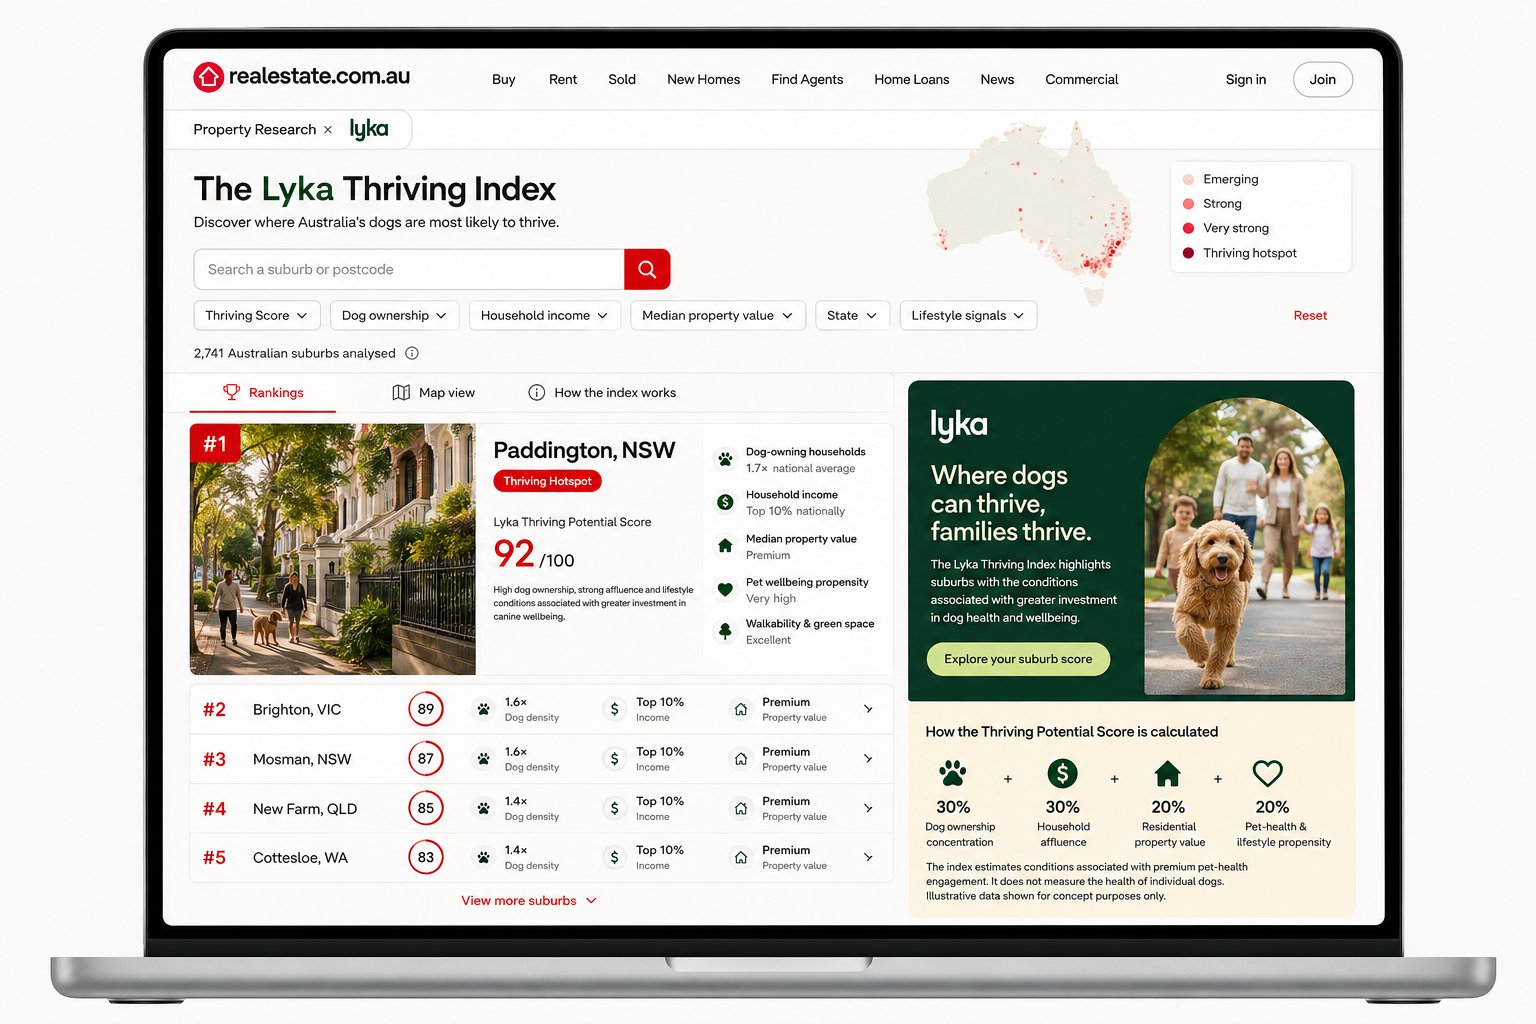
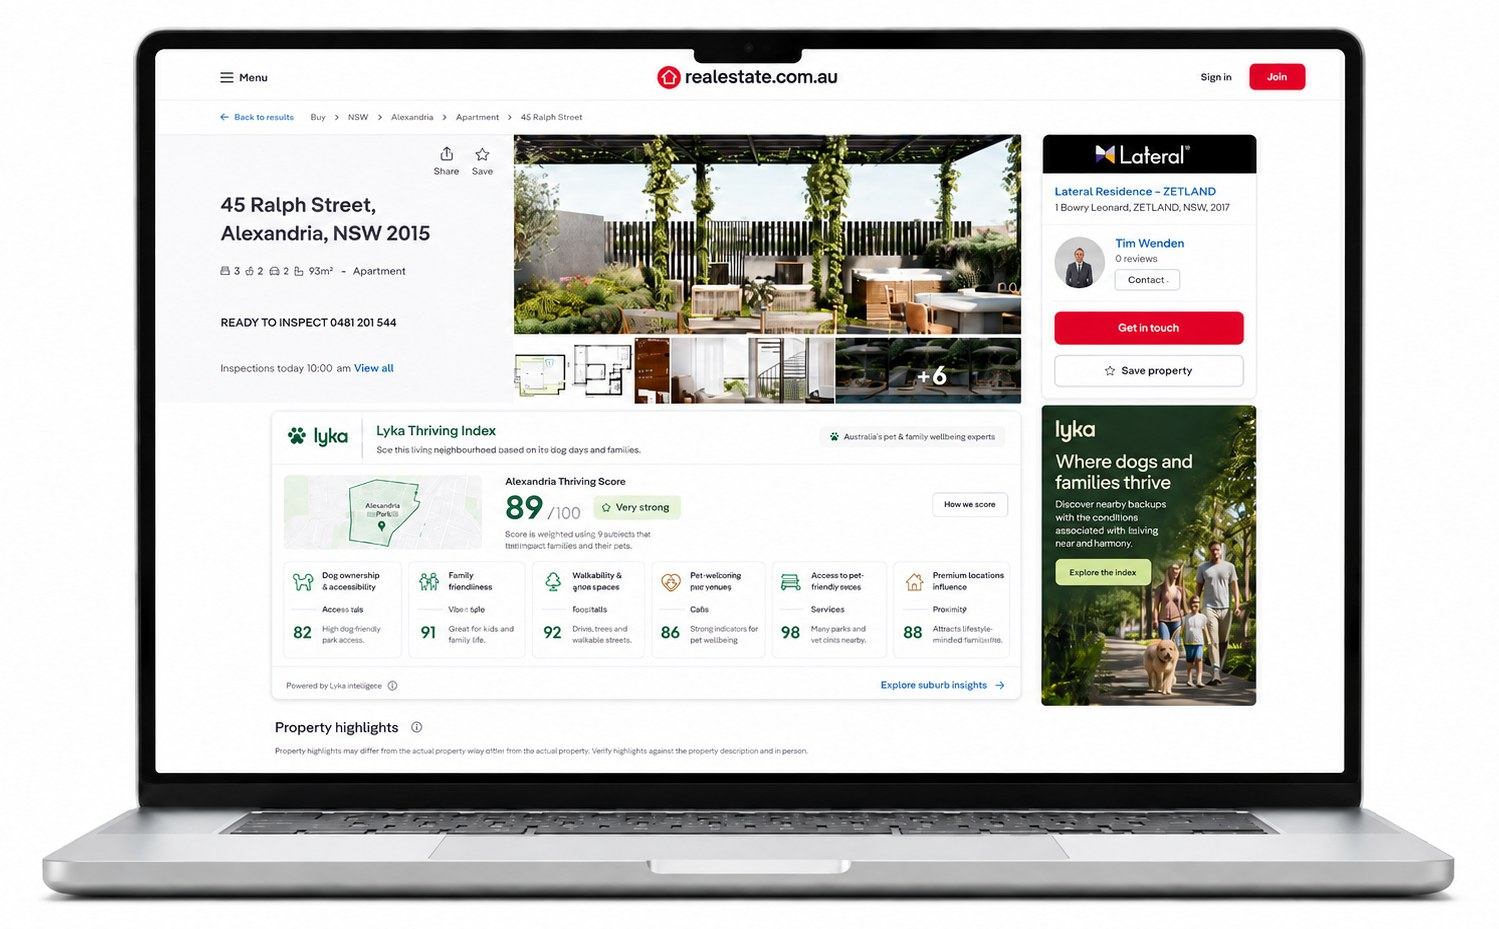
Media plan creative: new REA laptop mock and the landscape Nova frame
Slides 2 and 3 of "Accelerator Feedback - For Aaron.pptx". With the
persona move (slides 4 and 6) and the journey highlight (slide 7)
already landed, all four instructions in that deck are done.

  thriving-index.jpg  1536x1024 -> 1499x929   REA listing page mock
  nova-studio.jpg       738x738 -> 1672x941   16:9 studio frame

BOTH REPLACED A FILE IN PLACE, so `images` is unchanged and this commit
is otherwise two binary blobs. A replaced asset is invisible to a path
audit in a way an added or removed one is not: check 5d only asks
whether a declared path resolves, and it still does. Both are therefore
written into the creative manifest rather than left to the diff. The
Nova one also means that row no longer matches its workbook tab, which
the tab-to-row map now says.

THE LOOSE EXPORTS WERE NOT USED, for the third and fourth time with this
client. laptop.png is 971x642 and landscape.png is 1013x570, against
1672x941 embedded in the deck for both: 1.72x and 1.65x linear. Same
mock and same framing (landscape.png rescales to a mean absolute
difference of 1.8/255), just smaller. Treat the loose file as the
instruction and the deck embed as the asset. Both are kept in the
project folder as the record of the framing the client chose.

Neither embed needed a measured crop, unlike the pass 17 slides: checked
for slide chrome and letterboxing before cutting rather than assumed.
The REA embed was cropped to its content plus a margin matched to the
[…]

diff --git a/data/mediaPlanData.ts b/data/mediaPlanData.ts
@@ -67,6 +67,9 @@
 //   Cinema                  -> Cinema (auditorium, Val Morgan, 3 posters)
 //   Trilogy Outdoor         -> Outdoor Stature (mockup + JCDecaux, oOh!, QMS)
 //   Radio Partnership       -> Radio Segment (studio, Nova)   [tab name != row name]
+//                              ⚠ THE STUDIO SHOT IS NO LONGER THE WORKBOOK'S
+//                              either, since 2026-08-07. Same trap as REA below:
+//                              the path did not change, so nothing flags it.
 //   Podcast tab             -> Acast Podcasts (Acast) + Podcaster Performance (Toni and Ryan)
 //   Intergration [sic]      -> BBL (live moment, KFC BBL) + MMM Sports (booth, Triple M)
 //                              BBL also REUSES seven.png from the Screens tab.
@@ -75,7 +78,10 @@
 //                              to Always On Radio, so nothing is orphaned.
 //   Radio                   -> Always On Radio (ARN, SCA, Nova)
 //   Local Messaging Outdoor -> Local OOH (shelter + JCDecaux, oOh!, QMS)
-//   REA                     -> realestate.com.au (logo + Thriving Index mockup)
+//   REA                     -> realestate.com.au (logo + Thriving Index mockup).
+//                              ⚠ THE MOCKUP IS NO LONGER THE WORKBOOK'S. See the
+//                              2026-08-07 note below; the path is unchanged, so a
+//                              filename audit will not show it.
 //   Uber Pet                -> Uber Pet (logo + in car mockup)
 //
 // NOT FROM THE WORKBOOK, so the audit above will never find a source for these.
@@ -86,6 +92,42 @@
 //   nova-earworm.jpg    <- deck slide 10 embed, header cropped   1306x629 (export was 1039x501)
 //   we-mean-well.jpg    <- deck slide 12 embed, full frame       1672x941 (export was a 1163x603 crop)
 //   social-creators.jpg <- picture.png, THE LOOSE EXPORT         1333x584 (embed was only 1284x563)
+//
+// TWO MORE CLIENT CREATIVES LANDED 2026-08-07, and they are the ones this manifest
+// would otherwise miss entirely, because both REPLACED A FILE IN PLACE:
+//   thriving-index.jpg  <- "Accelerator Feedback - For Aaron.pptx" slide 2 embed
+//                          (Downloads), 1499x929 cropped from a 1672x941 embed.
+//                          Was a 1536x1024 workbook mockup.
+//   nova-studio.jpg     <- the same deck, slide 3 embed, 1672x941 uncropped.
+//                          **Was a 738x738 WORKBOOK image**, so this row no longer
+//                          matches its Radio Partnership tab either.
+//
+// Neither path changed, so `images` still reads the same two strings and NOTHING
+// in this file or in any asset check moved. **A REPLACED ASSET IS INVISIBLE TO A
+// PATH AUDIT in a way an added or removed one is not**: check 5d only asks whether
+// a declared path resolves, and it still does. That is why both are written down
+// here rather than left to the binary diff.
+//
+// THE LOOSE EXPORTS BESIDE THE DECK WERE NOT USED, for the third and fourth time:
+//   laptop.png     971x642  against the embed's 1672x941   (1.72x linear)
+//   landscape.png 1013x570  against the embed's 1672x941   (1.65x linear)
+// Both are the same mock and the same framing as their embed (landscape.png
+// rescales to a mean absolute difference of 1.8/255), just smaller. **Treat the
+// loose file as the INSTRUCTION and the deck embed as the ASSET.** Keep both as
+// the record of the framing the client chose.
+//
+// Neither needed re-cropping: unlike the pass 17 slides, these two embeds carry no
+// slide chrome. Verified before cutting, not assumed.
+//
+// The old REA mockup was the Thriving Index as a standalone page; the new one is a
+// property LISTING page with the Thriving Index panel inside it. The old Nova shot
+// was a 1:1 crop; the new one is the 16:9 frame. Both filenames still describe
+// what is featured, which is why neither was renamed.
+//
+// `imageWeights` on Radio Segment stayed [1.4, 1] through the Nova swap. The card
+// mat is a FIXED 230px HIGH box with `object-contain`, so height binds and a wider
+// image renders LARGER, not smaller: the square drew 198x198 in that card and the
+// 16:9 frame draws 352x198. Widening the weight to suit was unnecessary.
 //
 // Also note two files now UNREFERENCED but still on disk, both removed on client
 // direction rather than by mistake: paramount.png (BVOD & SVOD) and
